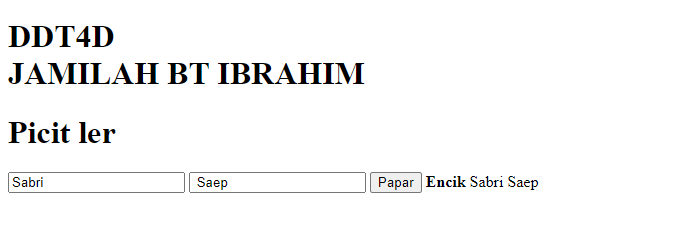
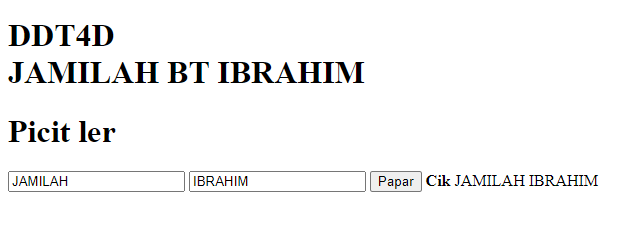
Cantum nama

diff --git a/index.html b/index.html
@@ -10,7 +10,7 @@
         function papar() {
             let Firstname = document.getElementById('Firstname').value;
             let Lastname = document.getElementById('Lastname').value;
-            document.getElementById('hasil').innerHTML = '<b>Encik </b>' + Firstname + Lastname;
+            document.getElementById('hasil').innerHTML = '<b>Cik  </b>' + Firstname + Lastname;
         }
     
         function picit() {
